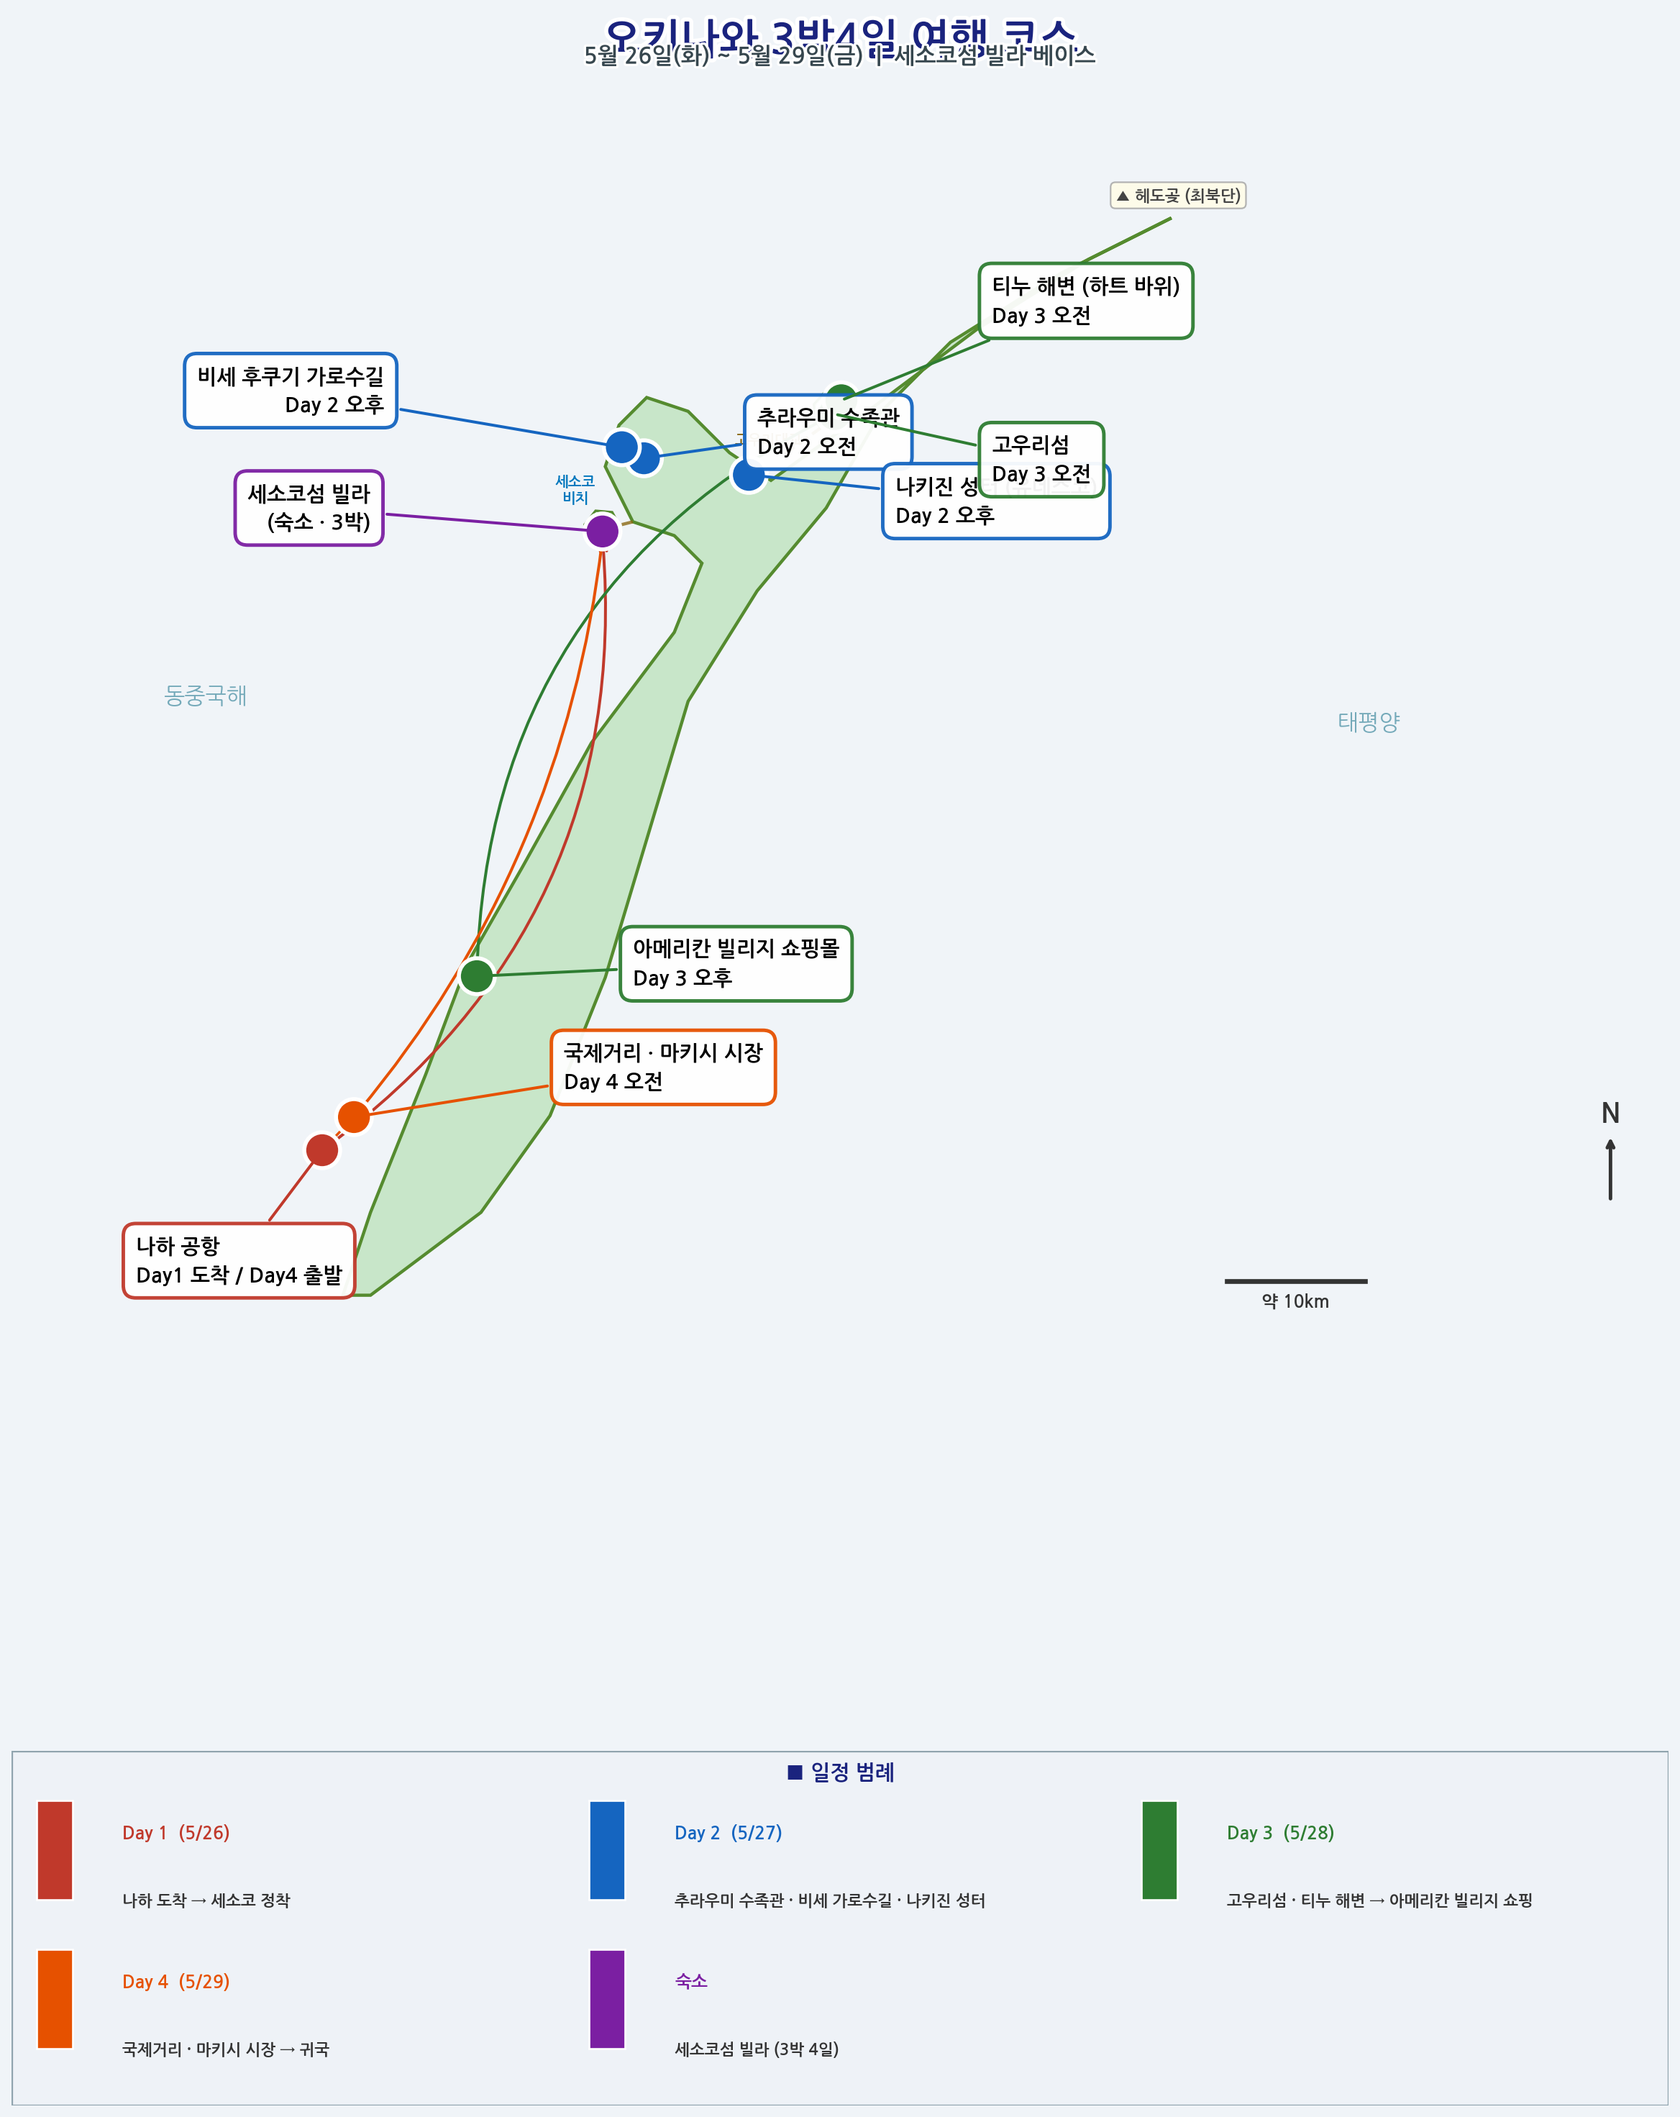
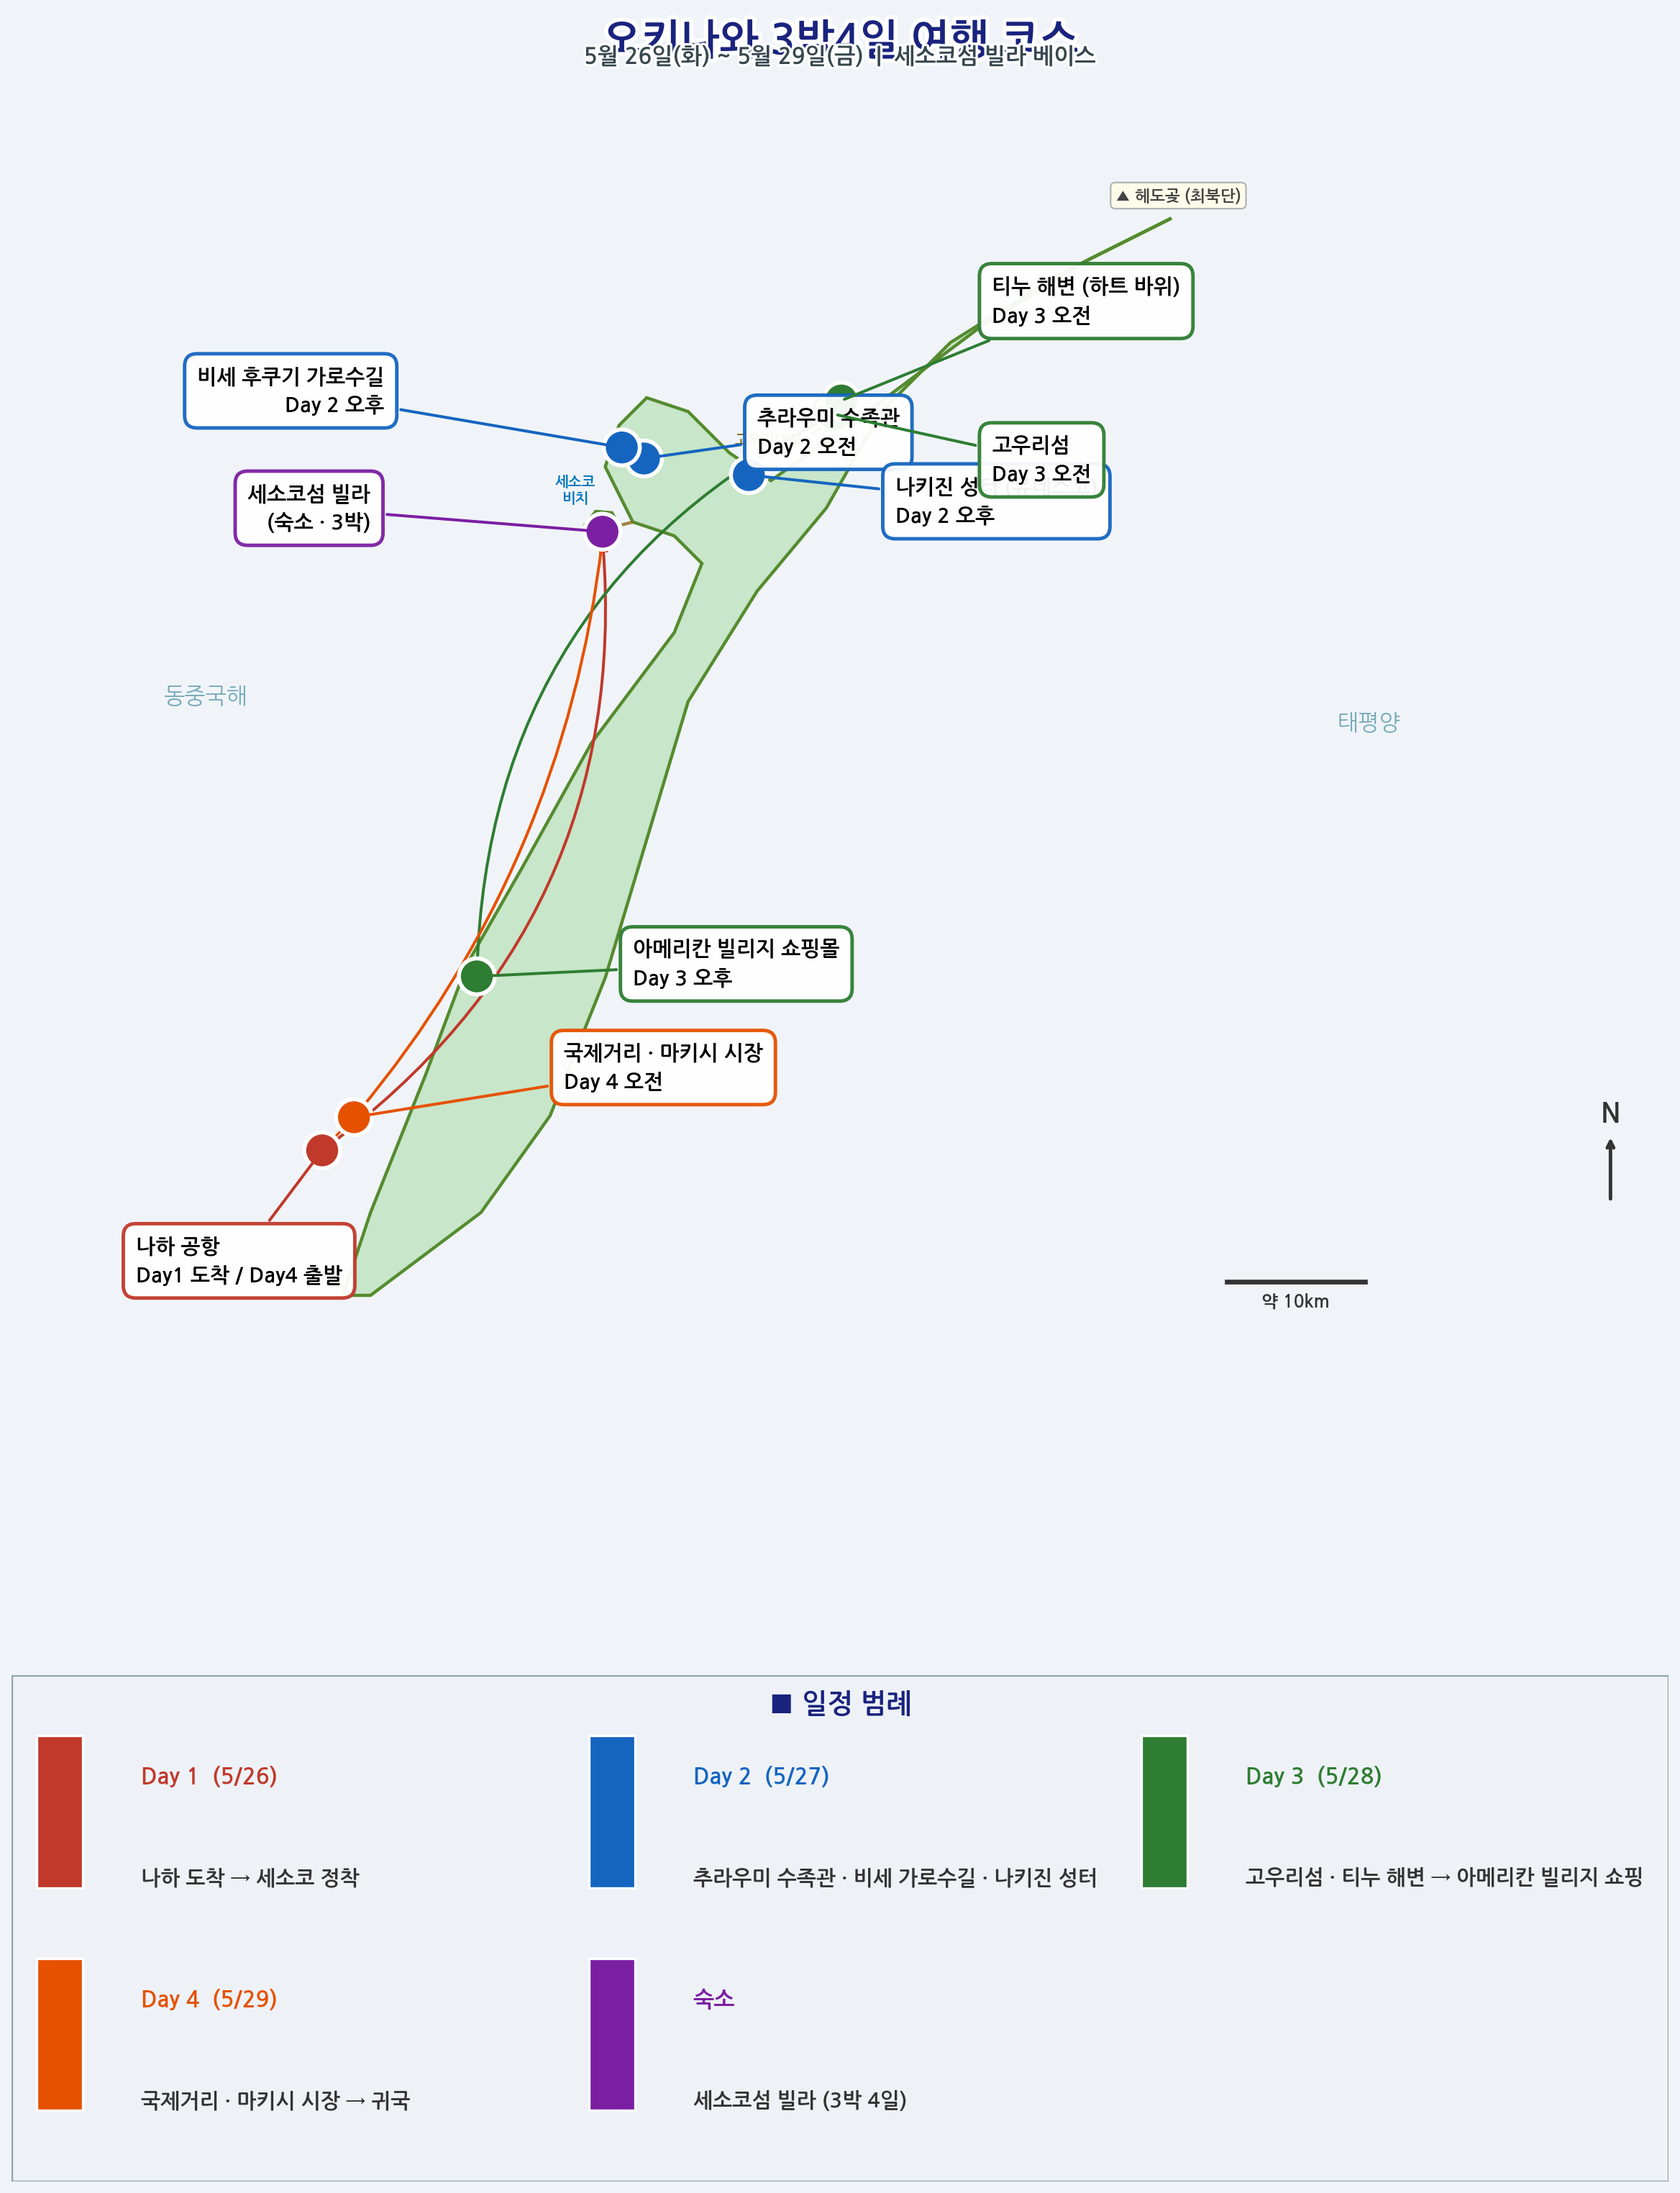
Enlarge legend panel fonts and increase panel height
- Legend title: 13 → 17pt
- Day labels: 11 → 14pt
- Detail labels: 10 → 13pt
- Legend panel height increased (0.14 → 0.20) to fit larger text

https://claude.ai/code/session_01CGhM5VQRCJYJkkRTWhuYUU

diff --git a/generate_map.py b/generate_map.py
@@ -18,15 +18,15 @@ fig = plt.figure(figsize=(15, 22))
 fig.patch.set_facecolor('#F0F4F8')
 
 # Map axes: leaves room for legend panel at bottom
-ax = fig.add_axes([0.02, 0.16, 0.96, 0.82])
+ax = fig.add_axes([0.02, 0.22, 0.96, 0.76])
 ax.set_facecolor('#A8D8EA')
 ax.set_xlim(127.42, 128.62)
 ax.set_ylim(26.04, 27.02)
 ax.set_aspect('equal')
 ax.axis('off')
 
-# Legend axes below map (taller)
-ax_leg = fig.add_axes([0.02, 0.01, 0.96, 0.14])
+# Legend axes below map (taller for larger fonts)
+ax_leg = fig.add_axes([0.02, 0.01, 0.96, 0.20])
 ax_leg.axis('off')
 ax_leg.set_facecolor('#EEF2F7')
 ax_leg.add_patch(plt.Rectangle((0, 0), 1, 1, transform=ax_leg.transAxes,
@@ -210,43 +210,42 @@ legend_data = [
 
 # 타이틀
 ax_leg.text(0.50, 0.97, '■ 일정 범례',
-            transform=ax_leg.transAxes, fontsize=13, fontweight='bold',
+            transform=ax_leg.transAxes, fontsize=17, fontweight='bold',
             ha='center', va='top', color='#1A237E')
 
 # 그리드: 3열 × 2행
 cols = 3
-rows = 2
 cell_w = 1.0 / cols
-cell_h = 0.42   # 전체 높이에서 각 행이 차지하는 비율
+cell_h = 0.44   # 행 간격
 
-rect_w  = 0.022   # 색상 박스 너비 (axes fraction)
-rect_h  = 0.28    # 색상 박스 높이
+rect_w  = 0.028   # 색상 박스 너비
+rect_h  = 0.30    # 색상 박스 높이
 pad_l   = 0.015   # 셀 왼쪽 여백
-txt_gap = 0.030   # 박스~텍스트 간격
+txt_gap = 0.035   # 박스~텍스트 간격
 
 for i, (color, day_lbl, detail_lbl) in enumerate(legend_data):
     col = i % cols
     row = i // cols
 
     x0 = col * cell_w + pad_l
-    y0 = 0.72 - row * cell_h   # 첫 행 y 중심
+    y0 = 0.73 - row * cell_h   # 첫 행 y 중심
 
     # 색상 박스
     ax_leg.add_patch(plt.Rectangle(
         (x0, y0 - rect_h / 2), rect_w, rect_h,
         transform=ax_leg.transAxes,
-        facecolor=color, edgecolor='white', linewidth=1.2, zorder=2,
+        facecolor=color, edgecolor='white', linewidth=1.5, zorder=2,
     ))
 
     # 굵은 날짜 라벨
-    ax_leg.text(x0 + rect_w + txt_gap, y0 + 0.05, day_lbl,
+    ax_leg.text(x0 + rect_w + txt_gap, y0 + 0.07, day_lbl,
                 transform=ax_leg.transAxes,
-                fontsize=11, fontweight='bold', va='center', color=color)
+                fontsize=14, fontweight='bold', va='center', color=color)
 
-    # 일반 설명
-    ax_leg.text(x0 + rect_w + txt_gap, y0 - 0.14, detail_lbl,
+    # 설명
+    ax_leg.text(x0 + rect_w + txt_gap, y0 - 0.13, detail_lbl,
                 transform=ax_leg.transAxes,
-                fontsize=10, fontweight='bold', va='center', color='#333')
+                fontsize=13, fontweight='bold', va='center', color='#333')
 
 fig.savefig('/home/user/mypage/okinawa_travel_map.png',
             dpi=160, bbox_inches='tight',
